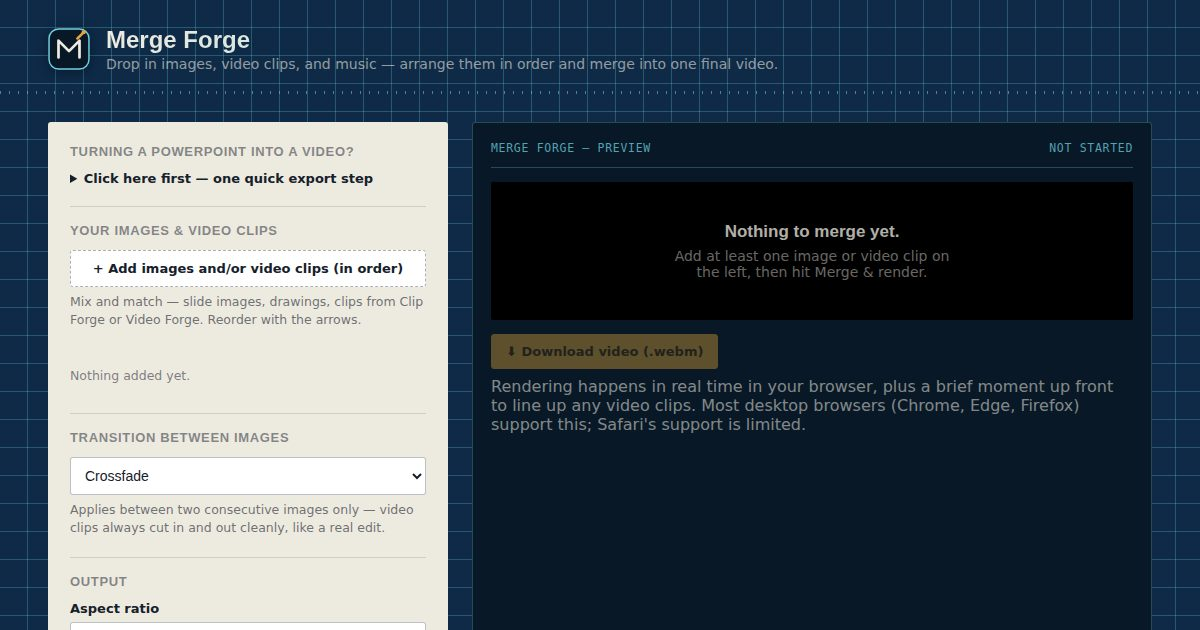
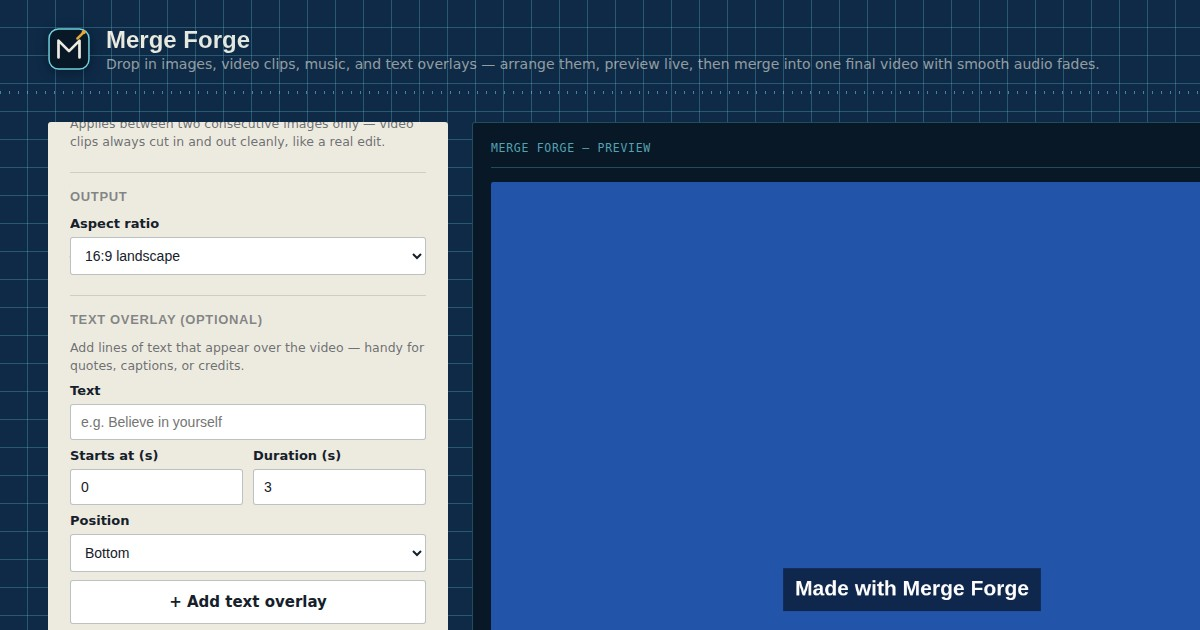
Add text overlays, live preview, and audio fades to Merge Forge
- Add text overlay/caption support (timed, positioned text drawn over
  the merged timeline), matching the pattern already used in Video
  Forge and Clip Forge — previously Merge Forge was the only video
  tool in the suite without it.
- Add a "Play preview" button that plays the timeline live in the
  browser (video segments, transitions, captions, and the full audio
  mix) with no export step, so pacing and audio can be checked before
  committing to a full render.
- Add fade-in/fade-out controls for the combined audio mix (music,
  narration, and video clip audio together), applied via a shared
  master gain node so the merged video no longer has to cut audio in
  or out abruptly.

Claude-Session: https://claude.ai/code/session_01YHretEVuD8m4VENuHZYMER

diff --git a/merge-forge.html b/merge-forge.html
@@ -4,15 +4,15 @@
 <meta charset="UTF-8" />
 <meta name="viewport" content="width=device-width, initial-scale=1.0" />
 <title>Merge Forge — combine images, clips and music into one video</title>
-<meta name="description" content="Drop in slide images, video clips from other tools, and music — arrange them in order and merge into one final video, right in your browser.">
+<meta name="description" content="Drop in slide images, video clips from other tools, music, and text overlays — preview it live, then merge into one final video with smooth audio fades, right in your browser.">
 <meta property="og:type" content="website">
 <meta property="og:title" content="Merge Forge — combine images, clips and music into one video">
-<meta property="og:description" content="Drop in slide images, video clips from other tools, and music — arrange them in order and merge into one final video, right in your browser.">
+<meta property="og:description" content="Drop in slide images, video clips from other tools, music, and text overlays — preview it live, then merge into one final video with smooth audio fades, right in your browser.">
 <meta property="og:image" content="https://migabuilder.com/assets/og/merge-forge.jpg">
 <meta property="og:url" content="https://migabuilder.com/merge-forge.html">
 <meta name="twitter:card" content="summary_large_image">
 <meta name="twitter:title" content="Merge Forge — combine images, clips and music into one video">
-<meta name="twitter:description" content="Drop in slide images, video clips from other tools, and music — arrange them in order and merge into one final video, right in your browser.">
+<meta name="twitter:description" content="Drop in slide images, video clips from other tools, music, and text overlays — preview it live, then merge into one final video with smooth audio fades, right in your browser.">
 <meta name="twitter:image" content="https://migabuilder.com/assets/og/merge-forge.jpg">
 <link rel="preconnect" href="https://fonts.googleapis.com">
 <link rel="preconnect" href="https://fonts.gstatic.com" crossorigin>
@@ -192,7 +192,7 @@
   </svg>
   <div>
     <h1>Merge Forge</h1>
-    <p>Drop in images, video clips, and music — arrange them in order and merge into one final video.</p>
+    <p>Drop in images, video clips, music, and text overlays — arrange them, preview live, then merge into one final video with smooth audio fades.</p>
   </div>
 </header>
 
@@ -238,6 +238,26 @@
       </select>
     </div>
 
+    <div class="section-title">Text overlay (optional)</div>
+    <div class="field">
+      <p class="hint" style="margin:0 0 8px;">Add lines of text that appear over the video — handy for quotes, captions, or credits.</p>
+      <label for="captionTextInput">Text</label>
+      <input type="text" id="captionTextInput" placeholder="e.g. Believe in yourself">
+      <div class="row-2" style="margin-top:8px;">
+        <div><label for="captionStartInput">Starts at (s)</label><input type="number" id="captionStartInput" value="0" min="0" step="0.5"></div>
+        <div><label for="captionDurationInput">Duration (s)</label><input type="number" id="captionDurationInput" value="3" min="0.5" step="0.5"></div>
+      </div>
+      <label for="captionPositionInput" style="margin-top:8px;">Position</label>
+      <select id="captionPositionInput">
+        <option value="bottom" selected>Bottom</option>
+        <option value="middle">Middle</option>
+        <option value="top">Top</option>
+      </select>
+      <button type="button" class="draft-btn secondary" id="addCaptionBtn" style="margin-top:8px;">+ Add text overlay</button>
+    </div>
+    <div class="items" id="captionsList"></div>
+    <p class="items-empty" id="captionsEmpty">No text overlays added.</p>
+
     <div class="section-title">Music &amp; sound (optional)</div>
     <div class="field">
       <p class="hint" style="margin:0 0 8px;">Layer in music or narration on top of everything above — upload a track (e.g. one you made in Music Forge), record narration live, or use a generated stock track. Got a screen recording from <a href="record-forge.html" style="color:var(--navy);text-decoration:underline;">Record Forge</a>? Add it as a clip above.</p>
@@ -259,6 +279,14 @@
     </div>
     <div class="frames" id="soundClips" style="display:flex;flex-direction:column;gap:8px;margin-top:10px;"></div>
     <p class="items-empty" id="soundClipsEmpty">No music or sound added — the merged video will use each clip's own original audio only.</p>
+    <div class="field">
+      <label>Fade the combined audio mix</label>
+      <div class="row-2">
+        <div><label for="fadeInInput" style="font-weight:400;font-size:12px;">Fade in (s)</label><input type="number" id="fadeInInput" value="0" min="0" max="10" step="0.5"></div>
+        <div><label for="fadeOutInput" style="font-weight:400;font-size:12px;">Fade out (s)</label><input type="number" id="fadeOutInput" value="0" min="0" max="10" step="0.5"></div>
+      </div>
+      <p class="hint">Smooths the start/end of the merged audio (music, narration, and video clip audio together) instead of cutting in or out abruptly.</p>
+    </div>
 
     <button type="button" class="draft-btn" id="renderBtn" style="margin-top:6px;">🎬 Merge &amp; render video</button>
     <div class="error-box" id="errorBox"></div>
@@ -285,10 +313,12 @@
     </div>
 
     <div class="table-actions">
+      <button type="button" id="playPreviewBtn">▶ Play preview</button>
+      <button type="button" id="stopPreviewBtn" disabled>■ Stop preview</button>
       <button type="button" id="cancelRenderBtn" style="display:none;">✕ Cancel render</button>
       <button type="button" id="downloadVideoBtn" disabled class="primary">⬇ Download video (.webm)</button>
     </div>
-    <p class="hint" style="color: rgba(237,234,224,0.55); margin-top: 8px;">Rendering happens in real time in your browser, plus a brief moment up front to line up any video clips. Most desktop browsers (Chrome, Edge, Firefox) support this; Safari's support is limited.</p>
+    <p class="hint" style="color: rgba(237,234,224,0.55); margin-top: 8px;">Play preview plays the timeline live, right here, with no export — a quick way to check pacing, transitions, captions, and audio before committing to a full render. Rendering itself happens in real time in your browser, plus a brief moment up front to line up any video clips. Most desktop browsers (Chrome, Edge, Firefox) support this; Safari's support is limited.</p>
   </section>
 </main>
 
@@ -304,10 +334,19 @@
   const mediaItemsEmpty = document.getElementById('mediaItemsEmpty');
   const transitionSelect = document.getElementById('transitionSelect');
   const aspectSelect = document.getElementById('aspectSelect');
+  const captionTextInput = document.getElementById('captionTextInput');
+  const captionStartInput = document.getElementById('captionStartInput');
+  const captionDurationInput = document.getElementById('captionDurationInput');
+  const captionPositionInput = document.getElementById('captionPositionInput');
+  const addCaptionBtn = document.getElementById('addCaptionBtn');
+  const captionsListEl = document.getElementById('captionsList');
+  const captionsEmpty = document.getElementById('captionsEmpty');
   const soundInput = document.getElementById('soundInput');
   const recordClipBtn = document.getElementById('recordClipBtn');
   const soundClipsEl = document.getElementById('soundClips');
   const soundClipsEmpty = document.getElementById('soundClipsEmpty');
+  const fadeInInput = document.getElementById('fadeInInput');
+  const fadeOutInput = document.getElementById('fadeOutInput');
   const renderBtn = document.getElementById('renderBtn');
   const errorBox = document.getElementById('errorBox');
   const titleBlockRight = document.getElementById('titleBlockRight');
@@ -318,6 +357,8 @@
   const progressLabel = document.getElementById('progressLabel');
   const progressPct = document.getElementById('progressPct');
   const progressFill = document.getElementById('progressFill');
+  const playPreviewBtn = document.getElementById('playPreviewBtn');
+  const stopPreviewBtn = document.getElementById('stopPreviewBtn');
   const cancelRenderBtn = document.getElementById('cancelRenderBtn');
   const downloadVideoBtn = document.getElementById('downloadVideoBtn');
 
@@ -326,6 +367,8 @@
   // ---------- state ----------
   let mediaItems = []; // {id, kind:'image'|'video', img, videoEl, objectUrl, name, duration, trimStart, trimEnd, naturalDuration, mute, volume, seed}
   let itemIdCounter = 0;
+  let captions = []; // {id, text, start, duration, position}
+  let captionIdCounter = 0;
   let soundClips = [];
   let clipIdCounter = 0;
   let mediaRecorderMic = null;
@@ -334,6 +377,9 @@
   let renderedVideoBlob = null;
   let renderState = null;
   let sharedAudioCtx = null;
+  let previewRaf = null;
+  let previewStart = null;
+  let previewMasterGain = null;
   const mediaSourceNodes = new Map(); // videoEl -> MediaElementSourceNode
 
   const KENBURNS_PATTERNS = [
@@ -449,6 +495,101 @@
     if (i < 0 || j < 0 || j >= mediaItems.length) return;
     const tmp = mediaItems[i]; mediaItems[i] = mediaItems[j]; mediaItems[j] = tmp;
     renderMediaItemsList();
+  }
+
+  // ---------- text overlays / captions (identical pattern to Video Forge) ----------
+  addCaptionBtn.addEventListener('click', function () {
+    clearError();
+    const text = captionTextInput.value.trim();
+    if (!text) { showError('Type some text first.'); return; }
+    captions.push({
+      id: ++captionIdCounter,
+      text,
+      start: Math.max(0, parseFloat(captionStartInput.value) || 0),
+      duration: Math.max(0.5, parseFloat(captionDurationInput.value) || 3),
+      position: captionPositionInput.value
+    });
+    captionTextInput.value = '';
+    renderCaptionsList();
+  });
+
+  function renderCaptionsList() {
+    captionsListEl.innerHTML = '';
+    captionsEmpty.style.display = captions.length ? 'none' : 'block';
+    captions.forEach(cap => {
+      const row = document.createElement('div');
+      row.className = 'clip-row';
+      row.innerHTML =
+        '<div class="clip-icon">💬</div>' +
+        '<div class="clip-meta">' +
+          '<span class="clip-name">"' + cap.text.replace(/</g, '&lt;') + '"</span>' +
+          '<div class="clip-controls">' +
+            '<label>From: <input type="number" class="cap-start" data-id="' + cap.id + '" value="' + cap.start + '" min="0" step="0.5" style="width:52px;">s</label>' +
+            '<label>For: <input type="number" class="cap-duration" data-id="' + cap.id + '" value="' + cap.duration + '" min="0.5" step="0.5" style="width:52px;">s</label>' +
+            '<label>At: <select class="cap-position" data-id="' + cap.id + '">' +
+              '<option value="bottom"' + (cap.position === 'bottom' ? ' selected' : '') + '>Bottom</option>' +
+              '<option value="middle"' + (cap.position === 'middle' ? ' selected' : '') + '>Middle</option>' +
+              '<option value="top"' + (cap.position === 'top' ? ' selected' : '') + '>Top</option>' +
+            '</select></label>' +
+          '</div>' +
+        '</div>' +
+        '<div class="clip-actions"><button type="button" data-remove="' + cap.id + '" title="Remove">✕</button></div>';
+      captionsListEl.appendChild(row);
+    });
+    captionsListEl.querySelectorAll('.cap-start').forEach(inp => inp.addEventListener('change', () => {
+      const cap = captions.find(c => c.id === Number(inp.dataset.id));
+      if (cap) cap.start = Math.max(0, parseFloat(inp.value) || 0);
+    }));
+    captionsListEl.querySelectorAll('.cap-duration').forEach(inp => inp.addEventListener('change', () => {
+      const cap = captions.find(c => c.id === Number(inp.dataset.id));
+      if (cap) cap.duration = Math.max(0.5, parseFloat(inp.value) || 3);
+    }));
+    captionsListEl.querySelectorAll('.cap-position').forEach(sel => sel.addEventListener('change', () => {
+      const cap = captions.find(c => c.id === Number(sel.dataset.id));
+      if (cap) cap.position = sel.value;
+    }));
+    captionsListEl.querySelectorAll('[data-remove]').forEach(btn => btn.addEventListener('click', () => {
+      captions = captions.filter(c => c.id !== Number(btn.dataset.remove));
+      renderCaptionsList();
+    }));
+  }
+
+  function wrapCanvasText(g, text, maxWidth) {
+    const words = text.split(/\s+/);
+    const lines = [];
+    let line = '';
+    words.forEach(word => {
+      const test = line ? line + ' ' + word : word;
+      if (line && g.measureText(test).width > maxWidth) { lines.push(line); line = word; } else { line = test; }
+    });
+    if (line) lines.push(line);
+    return lines;
+  }
+
+  function drawCaptionsAt(g, cw, ch, t) {
+    const active = captions.filter(c => t >= c.start && t < c.start + c.duration);
+    if (!active.length) return;
+    const fontSize = Math.round(ch * 0.045);
+    g.font = '700 ' + fontSize + 'px "IBM Plex Sans", sans-serif';
+    g.textAlign = 'center';
+    g.textBaseline = 'middle';
+    const maxWidth = cw * 0.86;
+    const lineHeight = fontSize * 1.3;
+    active.forEach(cap => {
+      const lines = wrapCanvasText(g, cap.text, maxWidth);
+      const anchorY = cap.position === 'top' ? ch * 0.14 : cap.position === 'bottom' ? ch * 0.86 : ch * 0.5;
+      const blockHeight = lines.length * lineHeight;
+      const firstLineY = anchorY - blockHeight / 2 + lineHeight / 2;
+      let maxLineWidth = 0;
+      lines.forEach(line => { maxLineWidth = Math.max(maxLineWidth, g.measureText(line).width); });
+      g.save();
+      g.fillStyle = 'rgba(0, 0, 0, 0.55)';
+      const boxPadX = 18, boxPadY = 12;
+      g.fillRect(cw / 2 - maxLineWidth / 2 - boxPadX, anchorY - blockHeight / 2 - boxPadY, maxLineWidth + boxPadX * 2, blockHeight + boxPadY * 2);
+      g.fillStyle = '#fff';
+      lines.forEach((line, i) => g.fillText(line, cw / 2, firstLineY + i * lineHeight));
+      g.restore();
+    });
   }
 
   // ---------- sound clips (identical pattern to Video Forge) ----------
@@ -664,11 +805,100 @@
         const nextLocalT = Math.max(0, t - starts[i + 1]);
         g.save(); g.globalAlpha = 1; drawSegmentContent(g, cw, ch, seg, localT); g.restore();
         g.save(); g.globalAlpha = progress; drawSegmentContent(g, cw, ch, next, nextLocalT); g.restore();
+        drawCaptionsAt(g, cw, ch, t);
         return;
       }
     }
     drawSegmentContent(g, cw, ch, seg, localT);
+    drawCaptionsAt(g, cw, ch, t);
   }
+
+  function applyFadeEnvelope(audioCtx, gainNode, totalDuration) {
+    const maxFade = totalDuration / 2;
+    const fadeIn = Math.min(Math.max(0, parseFloat(fadeInInput.value) || 0), maxFade);
+    const fadeOut = Math.min(Math.max(0, parseFloat(fadeOutInput.value) || 0), maxFade);
+    const now = audioCtx.currentTime;
+    gainNode.gain.cancelScheduledValues(now);
+    gainNode.gain.setValueAtTime(fadeIn > 0 ? 0 : 1, now);
+    if (fadeIn > 0) gainNode.gain.linearRampToValueAtTime(1, now + fadeIn);
+    if (fadeOut > 0) {
+      const fadeOutStart = now + Math.max(fadeIn, totalDuration - fadeOut);
+      gainNode.gain.setValueAtTime(1, fadeOutStart);
+      gainNode.gain.linearRampToValueAtTime(0, now + totalDuration);
+    }
+  }
+
+  // ---------- lightweight live preview (no export) ----------
+  function stopPreview() {
+    if (previewRaf) cancelAnimationFrame(previewRaf);
+    previewRaf = null;
+    mediaItems.forEach(item => { if (item.kind === 'video') item.videoEl.pause(); });
+    if (previewMasterGain) { try { previewMasterGain.disconnect(); } catch (e) {} previewMasterGain = null; }
+    playPreviewBtn.disabled = false;
+    stopPreviewBtn.disabled = true;
+  }
+
+  playPreviewBtn.addEventListener('click', function () {
+    clearError();
+    if (!mediaItems.length) { showError('Add at least one image or video clip first.'); return; }
+    const timeline = buildTimeline();
+    if (!timeline.total) { showError('Nothing to preview.'); return; }
+    const { w, h } = currentSize();
+    stageCanvas.width = w; stageCanvas.height = h;
+    stageEmpty.style.display = 'none';
+    resultVideo.style.display = 'none';
+    stageCanvas.style.display = 'block';
+
+    if (!sharedAudioCtx) sharedAudioCtx = new (window.AudioContext || window.webkitAudioContext)();
+    const audioCtx = sharedAudioCtx;
+    previewMasterGain = audioCtx.createGain();
+    previewMasterGain.connect(audioCtx.destination);
+    applyFadeEnvelope(audioCtx, previewMasterGain, timeline.total);
+    scheduleAudioSources(audioCtx, previewMasterGain, timeline.total);
+    mediaItems.forEach(item => {
+      if (item.kind !== 'video') return;
+      const sourceNode = getSourceNode(audioCtx, item.videoEl);
+      sourceNode.disconnect();
+      const gain = audioCtx.createGain();
+      gain.gain.value = item.mute ? 0 : item.volume;
+      sourceNode.connect(gain).connect(previewMasterGain);
+      item.videoEl.muted = true; // routed through the Web Audio graph above, not the element itself
+    });
+
+    playPreviewBtn.disabled = true;
+    stopPreviewBtn.disabled = false;
+    previewStart = performance.now();
+    titleBlockRight.textContent = 'PREVIEWING';
+    let activeVideoItem = null;
+    function step() {
+      const elapsed = (performance.now() - previewStart) / 1000;
+      if (elapsed >= timeline.total) {
+        drawTimelineAt(timeline, ctx, w, h, timeline.total - 0.001);
+        stopPreview();
+        titleBlockRight.textContent = 'PREVIEW DONE';
+        return;
+      }
+      const idx = findSegmentIndexAt(timeline, elapsed);
+      const seg = timeline.segments[idx];
+      if (seg.type === 'video' && activeVideoItem !== seg.item) {
+        if (activeVideoItem) activeVideoItem.videoEl.pause();
+        activeVideoItem = seg.item;
+        activeVideoItem.videoEl.currentTime = activeVideoItem.trimStart;
+        activeVideoItem.videoEl.play().catch(() => {});
+      } else if (seg.type !== 'video' && activeVideoItem) {
+        activeVideoItem.videoEl.pause();
+        activeVideoItem = null;
+      }
+      drawTimelineAt(timeline, ctx, w, h, elapsed);
+      previewRaf = requestAnimationFrame(step);
+    }
+    previewRaf = requestAnimationFrame(step);
+  });
+
+  stopPreviewBtn.addEventListener('click', function () {
+    stopPreview();
+    titleBlockRight.textContent = 'STOPPED';
+  });
 
   // ---------- render ----------
   function pickMimeType() {
@@ -689,6 +919,7 @@
       showError('Your browser does not support recording canvas to video. Try the latest Chrome, Edge, or Firefox.');
       return;
     }
+    stopPreview();
     const timeline = buildTimeline();
     if (!timeline.total) { showError('Nothing to render.'); return; }
     const mimeType = pickMimeType();
@@ -703,6 +934,7 @@
     renderedVideoBlob = null;
 
     renderBtn.disabled = true;
+    playPreviewBtn.disabled = true;
     progressWrap.classList.add('show');
     progressLabel.textContent = 'Lining up clips…';
     progressFill.style.width = '0%';
@@ -722,14 +954,17 @@
     if (!sharedAudioCtx) sharedAudioCtx = new (window.AudioContext || window.webkitAudioContext)();
     const audioCtx = sharedAudioCtx;
     const dest = audioCtx.createMediaStreamDestination();
-    scheduleAudioSources(audioCtx, dest, timeline.total);
+    const masterGain = audioCtx.createGain();
+    masterGain.connect(dest);
+    applyFadeEnvelope(audioCtx, masterGain, timeline.total);
+    scheduleAudioSources(audioCtx, masterGain, timeline.total);
     mediaItems.forEach(item => {
       if (item.kind !== 'video') return;
       const sourceNode = getSourceNode(audioCtx, item.videoEl);
       sourceNode.disconnect();
       const gain = audioCtx.createGain();
       gain.gain.value = item.mute ? 0 : item.volume;
-      sourceNode.connect(gain).connect(dest);
+      sourceNode.connect(gain).connect(masterGain);
       item.videoEl.muted = true;
     });
 
@@ -752,6 +987,7 @@
       progressWrap.classList.remove('show');
       cancelRenderBtn.style.display = 'none';
       renderBtn.disabled = false;
+      playPreviewBtn.disabled = false;
       mediaItems.forEach(item => { if (item.kind === 'video') item.videoEl.pause(); });
       renderState = null;
     }
